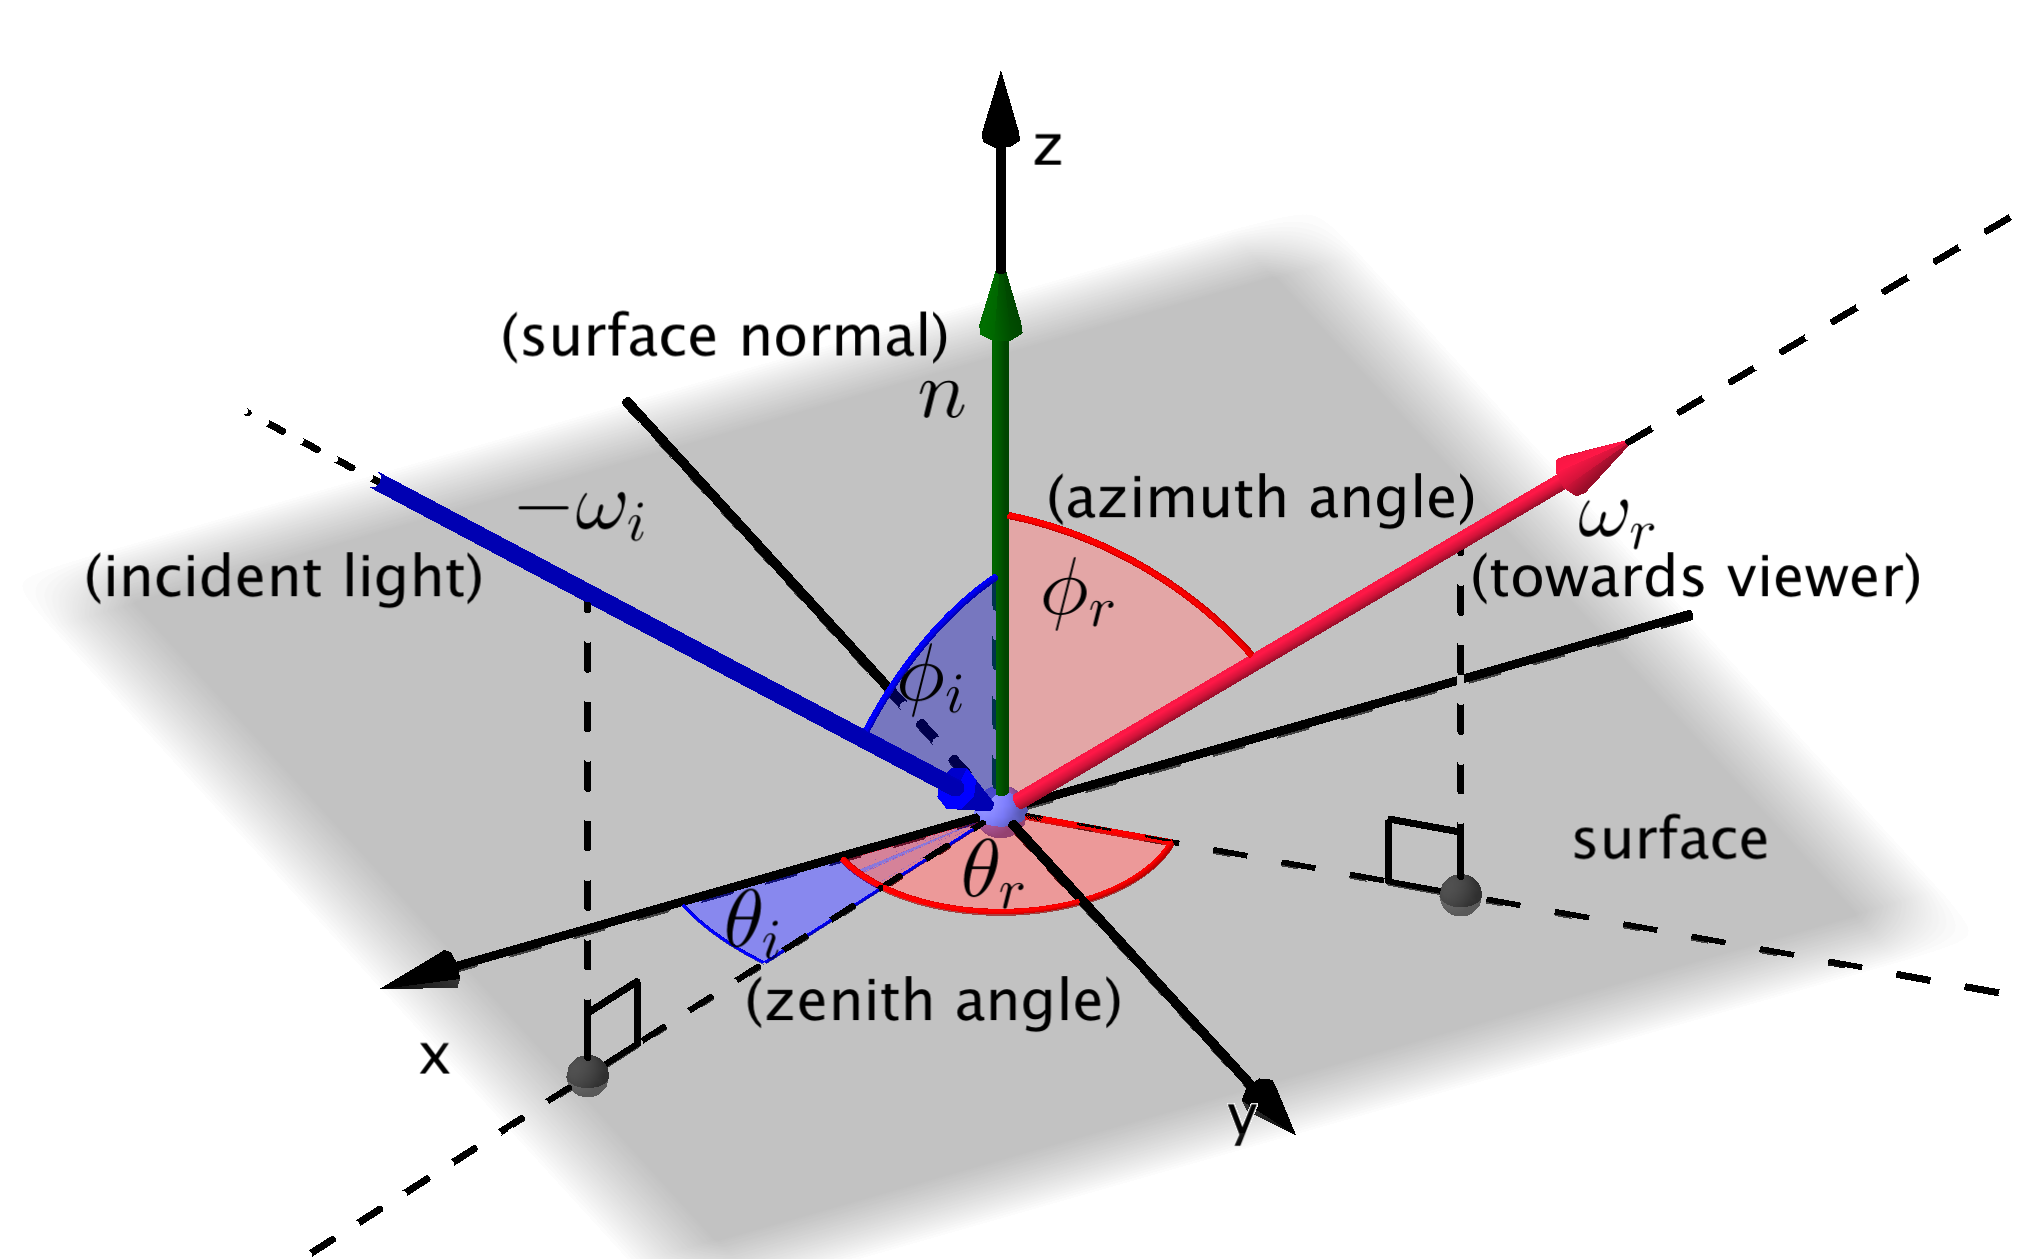
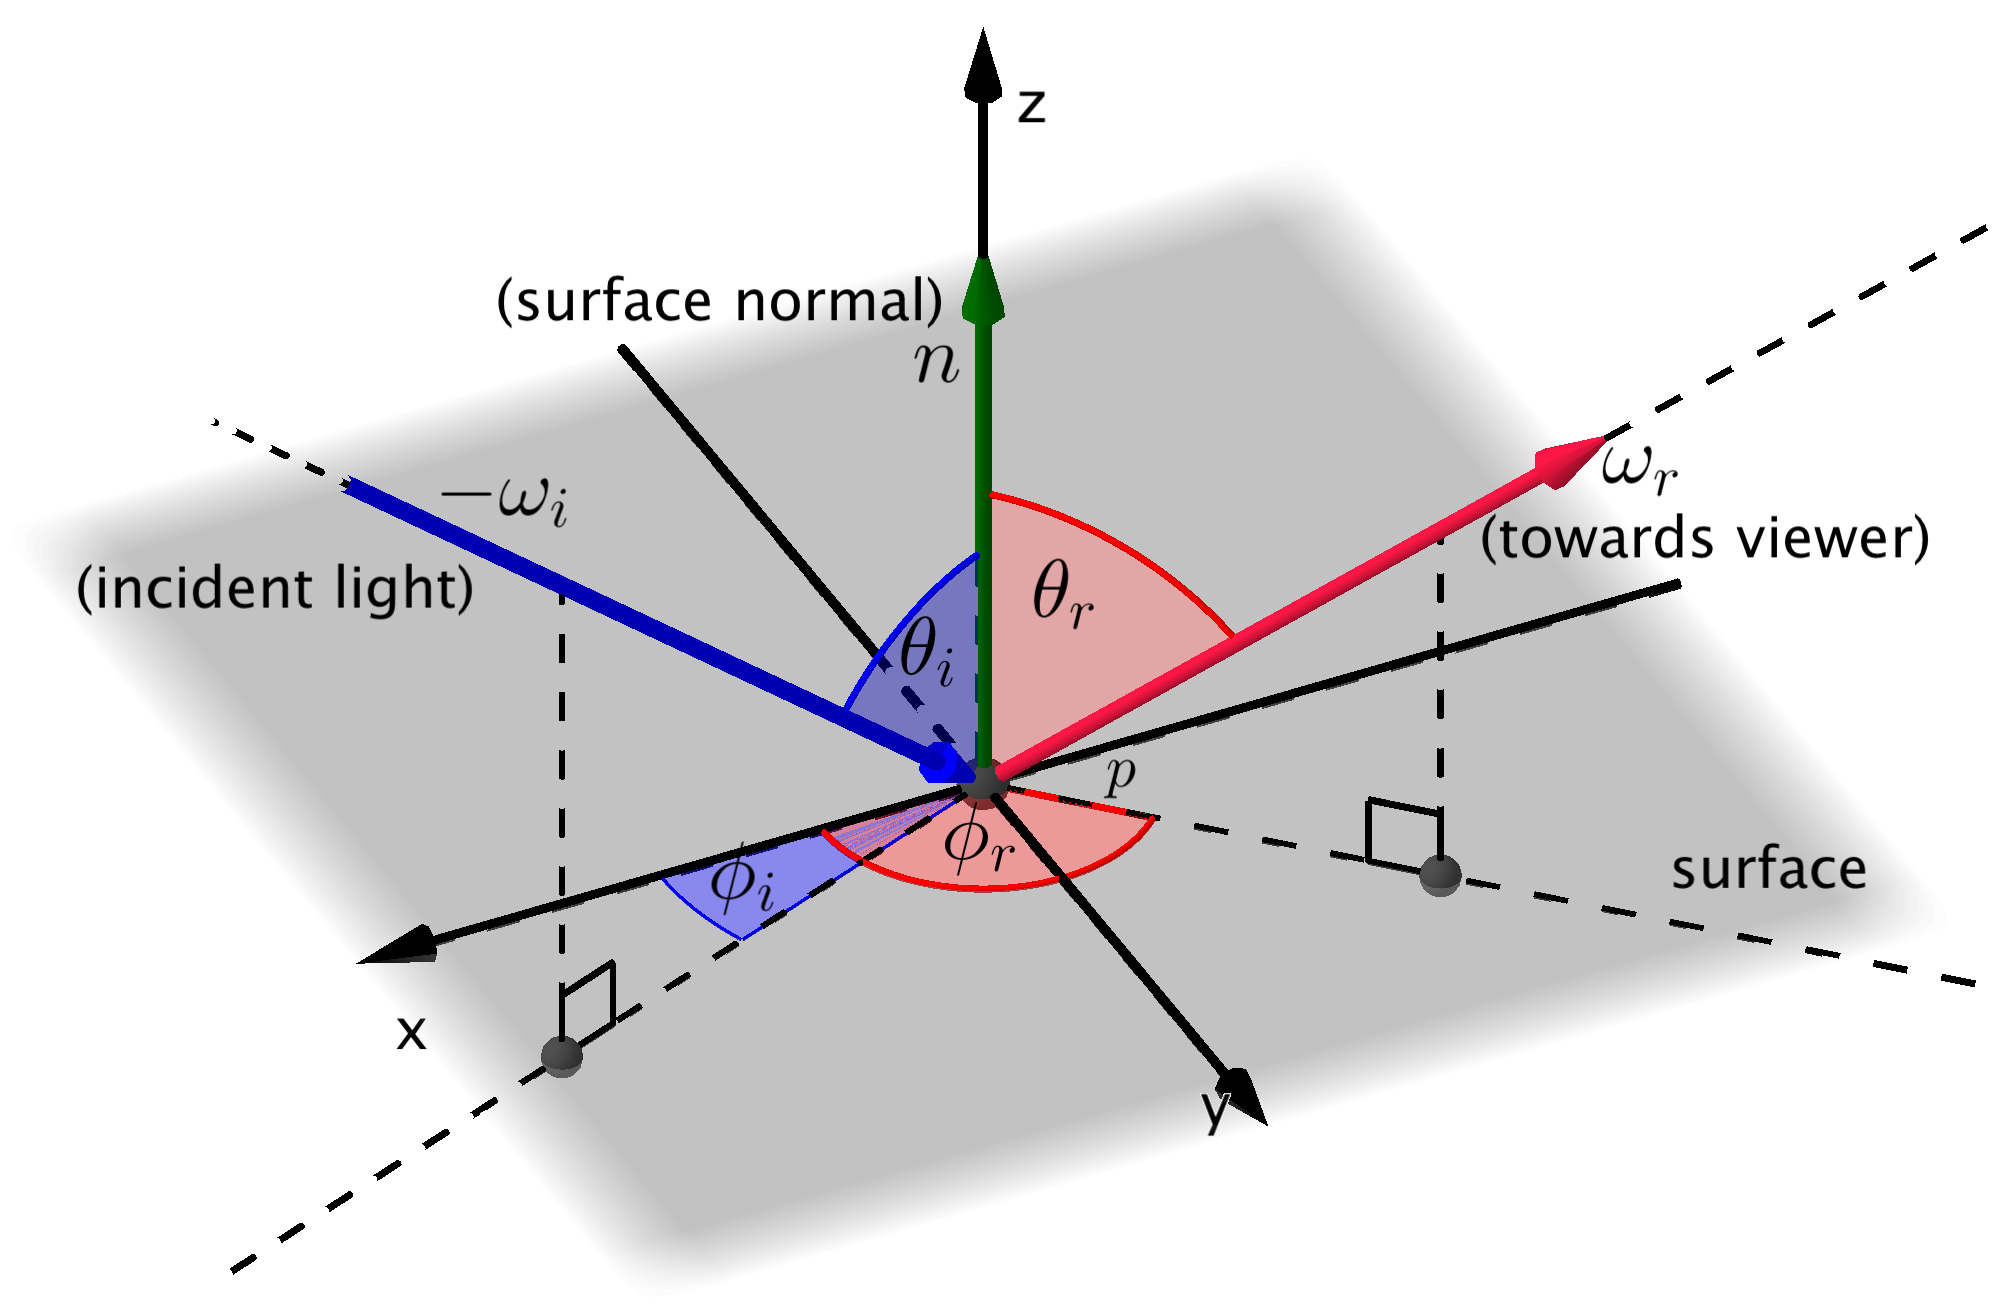
BRDF, next: relate to diffraction, spectral, example, height fields?

diff --git a/index.html b/index.html
@@ -135,7 +135,6 @@
       tex2jax: {inlineMath: [["$","$"],["\\(","\\)"]]}
     });
   </script>
-  <script type="text/javascript" src="../MathJax.js?config=TeX-AMS_HTML-full"></script>
   <script src='https://cdnjs.cloudflare.com/ajax/libs/mathjax/2.7.2/MathJax.js?config=TeX-MML-AM_CHTML'></script>
   <!-- end of mathjax configuration -->
 </head>
@@ -179,7 +178,7 @@
       <p><a href="#">Link</a></p> -->
     </div>
     <div class="col-sm-8 text-left">
-      <h1>Concepts and Examples</h1>
+      <h1>Concepts Behind Rendering Diffraction</h1>
       <p>
         When light hits a surface, some of it is reflected back into the environment.
         Inorder to simplfy modelling this process we make the following assumptions:
@@ -246,34 +245,87 @@
           <img src="lambert.png" alt="Lambert's Law">
           <div class="container" style="width:100%">
             <hr>
-            <p>Lambert's Law: $ E = \dfrac{\Phi}{A} = \dfrac{\Phi cos \theta}{A^\bot} $</p>
+            <p>Lambert's Law: $ E = \dfrac{\Phi}{A} = \dfrac{\Phi\; cos\; \theta}{A^\bot} $</p>
           </div>
         </div>
 
         <p>
           There is one more quatity we need to define, before we can introduce the BRDF.
-          <b> Radiance </b> is the flux density per unit area per unit solid angle.
+          The radiance will relate the irradiance to the direction of the light. As
+          we are dealing with three-dimensional space, we use solid angles to describe
+          the direction of the light.
+        </p>
+        <p>
           Solid angles are the three-dimensional analogue of angles we know from plane
-          geometry. They are measured in steradians ($sr$). A unit sphere is has $4\pi sr$
+          geometry. They are measured in steradians ($sr$). A unit sphere has $4\pi\; sr$
           and the solid angle of an object at a vertex is the area of its projection
           onto a unit sphere around that vertex.
+        </p>
+        <p>
+          Let $\omega$ now denote the direction of the light and $E_\omega$ the irradiance
+          at a surface perpendicular to $\omega$. Then the <b> radiance </b> at a point $p$
+          is defined to be:
+          \[ L (p, \omega) = \frac{d E_\omega(p)}{d\omega} = \frac{d \Phi(p)}{d\omega \; dA^\bot} \]
+          From the definitons above, it follows that the radiance is also flux density
+          per unit area per unit solid angle.
+        </p>
+        <!--Citation:
+        Pharr, M., & Humphreys, Greg, Ph. D. (2010). 5.6 Surface Reflection. In: Physically based rendering :
+        From theory to implementation (3rd ed.). Amsterdam ; London: Morgan Kaufmann.  -->
+        <p>
+          Now we can define the <b>bidirectional reflectance distribution function</b>.
+          The BRDF is a function $f(p, \omega_r, \omega_i)$ describing the reflection
+          from a surface at a point $p$ with incident light from the direction $\omega_i$
+          and reflected light exiting in the direction $\omega_r$.
+        </p>
+        <p>
+          As $\omega_r$ and $\omega_i$ are directions in three-dimensional space,
+          $f$ is actually a function of four variables and the point $p$. Note that
+          $\omega_i$ and $\omega_r$ are both facing away from $p$.
         </p>
 
         <div class="imagebox" style="width:65%">
           <img src="BRDF_input.png" alt="input quantities for BRDF">
           <div class="container" style="width:100%">
             <hr>
-            <p>Figure 2: The input parameters of a BRDF.</p>
+            <p>The input parameters of a BRDF are the angles $\theta_i$,
+              $\phi_i$, $\theta_r$ and $\phi_r$.</p>
           </div>
         </div>
+
+        We want to relate the reflected radiance $L_r(p, \omega_r)$ to the incident
+        radiance $L_i(p, \omega_i)$. Recall the definiton of radiance above. We need
+        to consider differential cones of directions around $\omega_i$ and $\omega_r$.
 
         <div class="imagebox" style="width:65%">
           <img src="BRDF_output.png" alt="output of BRDF">
           <div class="container" style="width:100%">
             <hr>
-            <p>Figure 3: The output of a BRDF.</p>
+            <p>Differential cones of directions for $\omega_i$ and $\omega_i$
+              needed to define the BRDF in terms of irradiance $E(p, \omega_i)$
+              and reflected radiance $L_r(p, \omega_r)$.</p>
           </div>
         </div>
+
+        <p>
+          Using the definition of radiance above and Lambert's Law we get:
+          \[
+            dE(p, \omega_i) = dL_i(p, \omega_i)\; cos\; \theta_i \; d\omega_i
+          \]
+          As we assumed <i> linearity </i> above i.e. more incident light
+          corresponds to more reflected light etc., we also know that
+          \[
+            dL_r(p, \omega_r)\propto dE(p, \omega_i)
+          \]
+          The BRDF of a surface gives us the constant of proportionality for
+          relation above with respect to a point $p$ with incident light from the direction $\omega_i$
+          and reflected light exiting in the direction $\omega_r$. The BRDF is
+          returns the ratio of differential reflected radiance to differential incident irradiance:
+          \[
+            f(p, \omega_r, \omega_i) = \frac{dL_r(p, \omega_r)}{dE(p, \omega_i)}
+             = \frac{dL_r(p, \omega_r)}{dL_i(p, \omega_i)\; cos\; \theta_i \; d\omega_i}
+          \]
+        </p>
 
         <p class="text-body text">
         </p>
